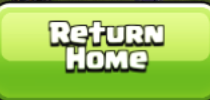
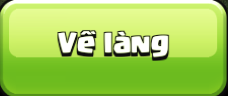
feat(vision): re-capture the UI templates on a Vietnamese client
Every text-bearing template was cropped from an English client, so on a
Vietnamese one the bot could not see the attack button, the next button,
the surrender button or the result screen. Eighteen templates were
re-cropped from live captures on a 1350x1080 emulator and each now
records the screen size it came from, so ScreenReader can rescale it
onto a different panel instead of matching only at one resolution.

Recapturing surrendered a distinction the English assets had by
accident. Both villages draw the same red button, the same "battle ends
in" timer and the same damage panel in the same places; in Vietnamese
they are pixel-identical, and the Builder Base button now scores 0.97
against the Home Village template where the English crop scored 0.68 and
fell short of the threshold. A BB fight therefore answered IN_BATTLE and
the home-village logic began planning an attack on a base it could not
see. bb_side_label — the defender/attacker header, which only a Builder
Base fight has — is asked before any of the shared markers.

Templates without text are untouched. troops_bar in particular decides
ui_cutoff for the whole V2 system and does not care what language the
game is in.

Left in English: confirm_button and connection_error. Both are popups
that appear only on failure or in Ranked, and neither can be summoned to
order.

diff --git a/tests/test_state_detection_order.py b/tests/test_state_detection_order.py
@@ -1,0 +1,76 @@
+"""The order the state markers are asked in is load-bearing.
+
+Both villages draw the same red surrender button, the same "battle ends
+in" timer and the same damage panel, in the same screen positions. On a
+Vietnamese client they are pixel-identical: the Builder Base surrender
+button scores 0.97 against the Home Village template. Nothing in
+``detect_state`` can tell them apart, so the only defence is asking a
+Builder-Base-only marker first.
+
+Measured on captures from a live 1350x1080 emulator:
+  BB surrender vs HV template  ->  0.97   (matches, wrongly)
+  BB "Bên phòng thủ" header    ->  BB only, no Home Village equivalent
+"""
+
+import json
+import pathlib
+import unittest
+
+
+SOURCE = pathlib.Path("vision/screen_reader.py").read_text(encoding="utf-8")
+MANIFEST = json.loads(
+    pathlib.Path("assets/templates/manifest.json").read_text(encoding="utf-8"),
+)
+
+
+def _line_of(needle: str) -> int:
+    for number, line in enumerate(SOURCE.splitlines()):
+        if needle in line and "return GameState" in line:
+            return number
+    raise AssertionError(f"{needle!r} is not asked in detect_state at all")
+
+
+class BuilderBaseIsCheckedFirstTest(unittest.TestCase):
+    def test_the_bb_only_marker_beats_every_shared_battle_marker(self):
+        bb = _line_of("bb_side_label")
+        for shared in ("surrender_button", "lot_asseset",
+                       "end_battle_button", "timer_top_start"):
+            self.assertLess(
+                bb, _line_of(shared),
+                f"{shared} is shared with the Builder Base and would win",
+            )
+
+    def test_the_bb_marker_is_registered(self):
+        from vision.template_manager import DEFAULT_ASSETS
+        self.assertIn("bb_side_label", DEFAULT_ASSETS)
+        self.assertIn("bb_side_label", MANIFEST)
+        self.assertTrue(
+            pathlib.Path(
+                MANIFEST["bb_side_label"]["file"].replace("\\", "/"),
+            ).is_file(),
+            "the template file is missing — the check would silently never fire",
+        )
+
+
+class TemplatesRecordTheirCaptureSizeTest(unittest.TestCase):
+    """A template without screen_w cannot be rescaled onto another panel,
+    so it only works on the resolution it happened to be cropped at."""
+
+    TEXT_BEARING = (
+        "attack_button", "attack_button2", "next_button", "end_battle_button",
+        "surrender_button", "end_battle_confirm", "return_home",
+        "ranked_mode_btn", "normal_mode_btn", "searching_indicator",
+        "timer_top_start", "lot_asseset",
+        "bb_find_match", "bb_attack_confirm", "bb_return_home",
+        "bb_prep_text", "bb_active_text", "bb_battle_hud", "bb_side_label",
+    )
+
+    def test_every_recaptured_template_knows_its_screen_width(self):
+        for name in self.TEXT_BEARING:
+            entry = MANIFEST.get(name)
+            self.assertIsNotNone(entry, name)
+            self.assertTrue(int(entry.get("screen_w") or 0) > 0, name)
+
+
+if __name__ == "__main__":
+    unittest.main()

diff --git a/vision/screen_reader.py b/vision/screen_reader.py
@@ -582,6 +582,15 @@ class ScreenReader:
         if f(screenshot, "bb_return_home", 0.80):    return GameState.BATTLE_ENDED
         if f(screenshot, "bb_battle_result", 0.80):  return GameState.BATTLE_ENDED
 
+        # Every other in-battle marker below is shared with the Home
+        # Village: both villages draw the same red surrender button, the
+        # same "battle ends in" timer and the same damage panel, in the
+        # same places. The defender/attacker header is the one thing only
+        # a Builder Base fight has, so it must be asked FIRST — otherwise
+        # a BB battle answers IN_BATTLE and the home-village logic starts
+        # planning an attack on a base it cannot see.
+        if f(screenshot, "bb_side_label", 0.80):     return GameState.BB_BATTLE
+
         # The "Available Loot" panel is on screen while scouting and while
         # attacking. It must be judged at the normal UI confidence: at 0.35
         # it also matched the battle-result screen (0.43) and reported

diff --git a/vision/template_manager.py b/vision/template_manager.py
@@ -99,6 +99,7 @@ DEFAULT_ASSETS: dict[str, tuple[str, str]] = {
     # ── Builder Base ────────────────────────────────────────────────────
     "bb_home_indicator":     ("builder_base", "BB Home Indicator"),
     "bb_find_match":         ("builder_base", "BB Find Match Button"),
+    "bb_side_label":         ("builder_base", "BB Defender/Attacker Label"),
     "bb_battle_hud":         ("builder_base", "BB Battle HUD"),
     "bb_stage2_indicator":   ("builder_base", "BB Stage 2 Indicator"),
     "bb_battle_result":      ("builder_base", "BB Battle Result"),
